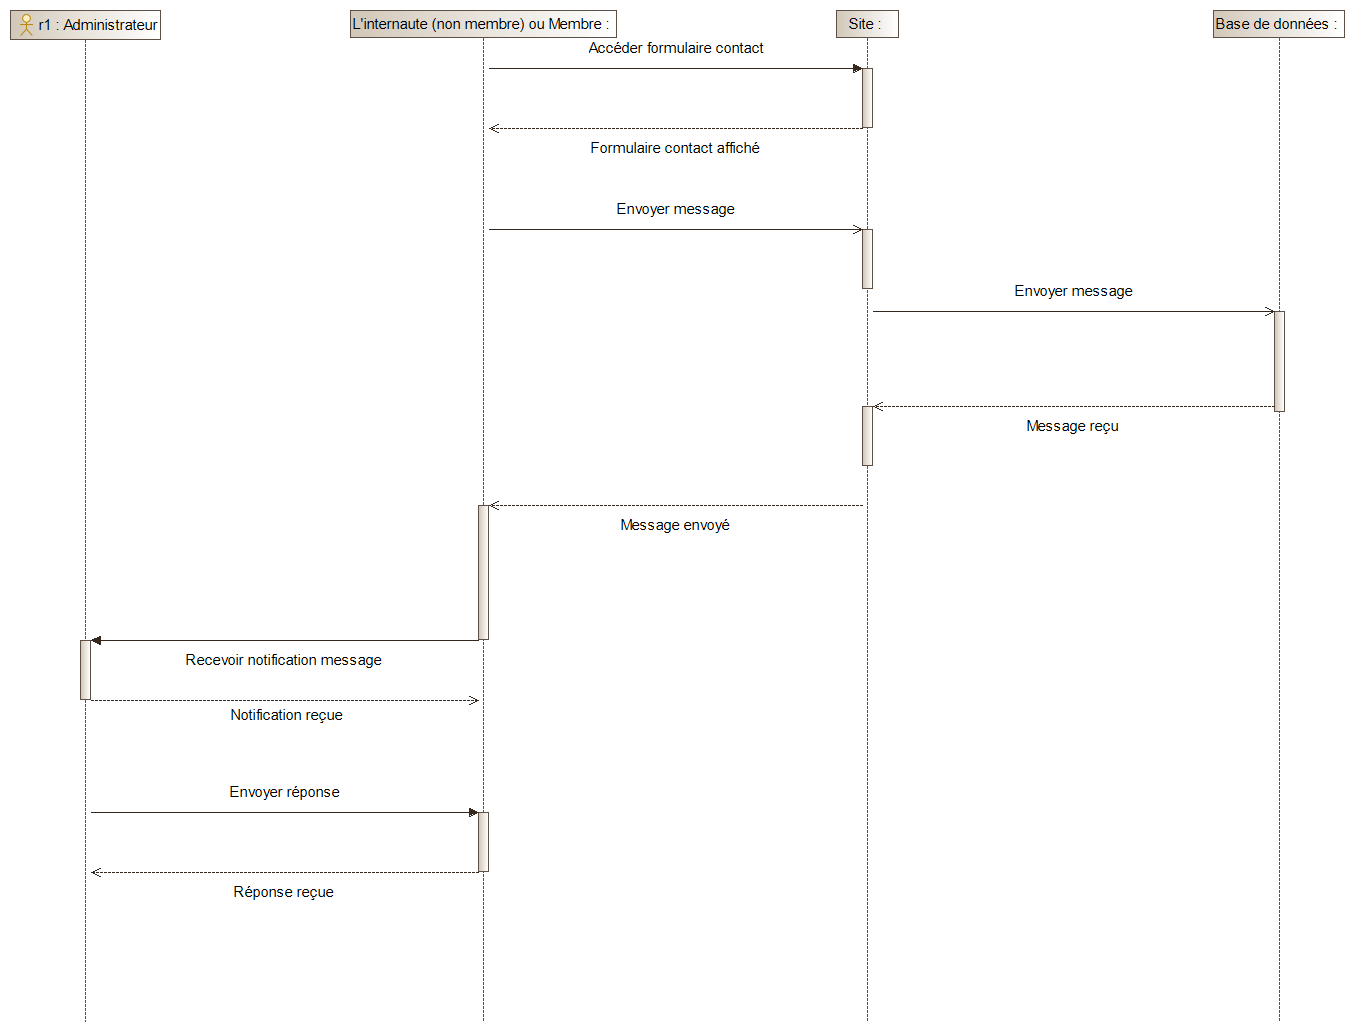
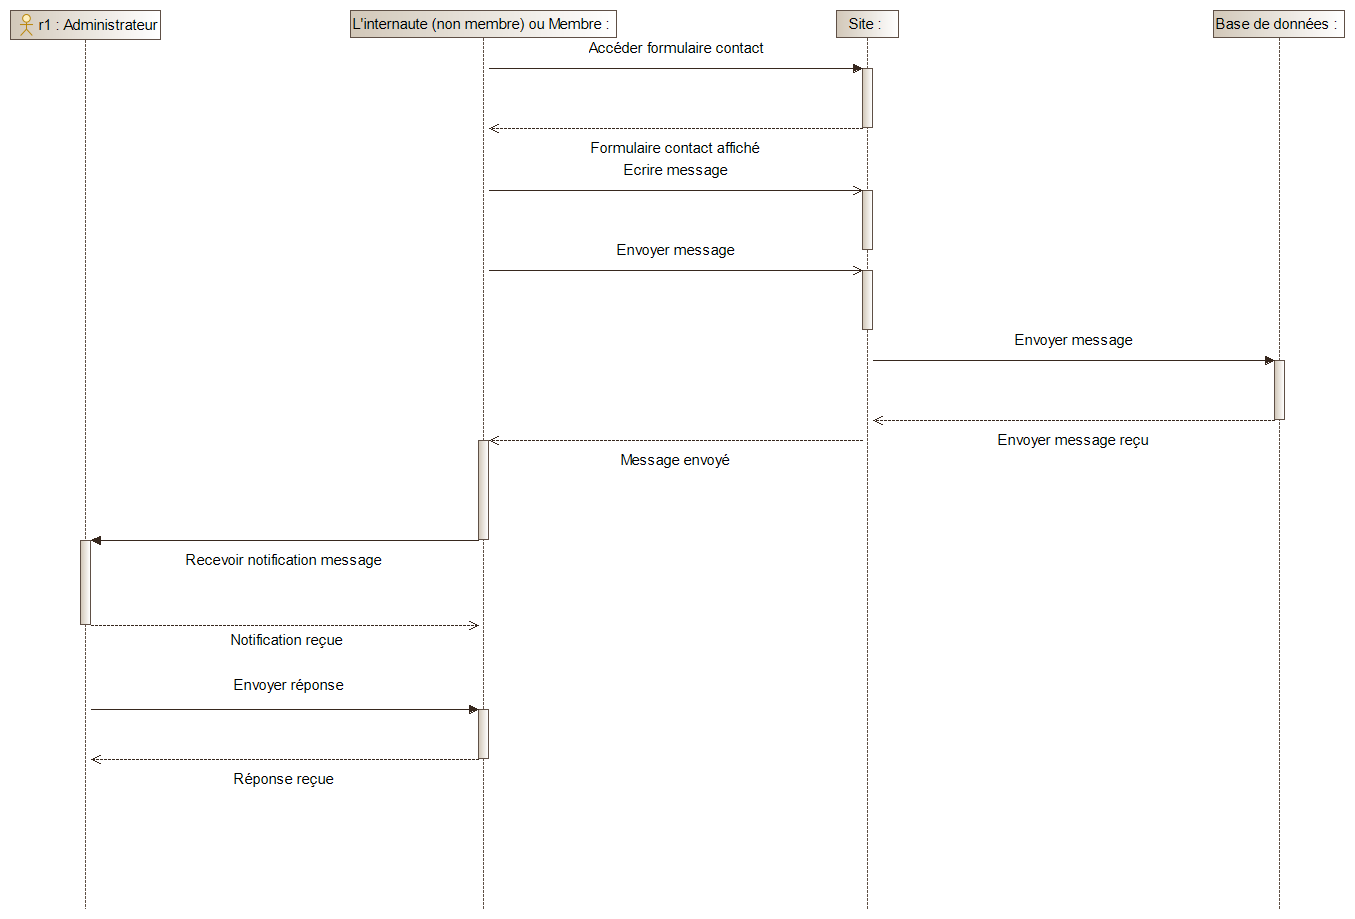
Fonctionnalité de la réponse automatique

diff --git a/src/AssocBundle/Controller/AssocController.php b/src/AssocBundle/Controller/AssocController.php
@@ -10,7 +10,6 @@ use AssocBundle\Entity\Don;
 use Symfony\Bundle\FrameworkBundle\Controller\Controller;
 use Symfony\Component\HttpFoundation\Request;
 use Symfony\Component\HttpFoundation\Response;
-use Knp\Bundle\SnappyBundle\Snappy\Response\PdfResponse;
 use Symfony\Component\HttpKernel\Exception\NotFoundHttpException;
 
 class AssocController extends Controller {
@@ -42,6 +41,19 @@ class AssocController extends Controller {
             $request->getSession()->getFlashBag()->add('info', 'Message bien envoyé, on vous répondra dans les plus brefs délais');
             $message = $this->getDoctrine()->getRepository('AssocBundle:Message')->findById($message->getId());
             //$transport = \Swift_MailTransport::newInstance();
+            $reponse = \Swift_Message::newInstance()
+                    ->setSubject('Votre message sur le formulaire de contact')
+                    ->setFrom('honore@soamada.org')
+                    ->setTo($form["email"]->getData())
+                    ->setBody(
+                    $this->renderView(
+                            'Emails/reponseauto.html.twig', array('messages' => $message)
+                    ), 'text/html'
+            );
+            $this->get('mailer')->send($reponse);
+            //$mailer = \Swift_Mailer::newInstance($transport)
+                    //->send($contact);
+            //$transport = \Swift_MailTransport::newInstance();
             $contact = \Swift_Message::newInstance()
                     ->setSubject('Un nouveau message sur le formulaire de contact')
                     ->setFrom($form["email"]->getData())
@@ -52,7 +64,7 @@ class AssocController extends Controller {
                     ), 'text/html'
             );
             $this->get('mailer')->send($contact);
-            //$mailer = \Swift_Mailer::newInstance($transport)
+           //$mailer = \Swift_Mailer::newInstance($transport)
                     //->send($contact);
         }
         $membres = $this->getDoctrine()->getRepository('AppBundle:Membre')->findAll();
@@ -190,7 +202,6 @@ class AssocController extends Controller {
     /**
      * Méthode affichant la liste des abonnées à la newsletter
      *
-     * @return void
      */
     public function listeAbonnesAction() {
         $abonnes = $this->getDoctrine()->getRepository('AssocBundle:Abonne')->findAll();
@@ -235,7 +246,6 @@ class AssocController extends Controller {
     public function genererArticleenPdfAction(Article $article) {
 
         $snappy = $this->get('knp_snappy.pdf');
-        //var_dump($snappy);
         $fichierNom = 'article';
         $html = $this->renderView('AssocBundle:Default:unarticle.html.twig', array('article' => $article));
         return new Response($snappy->getOutputFromHtml($html), 200, array('Content-Type' => 'application/pdf', 'Content-Disposition' => 'inline; filename="' . $fichierNom . '".pdf'));

diff --git a/src/AssocBundle/Entity/Message.php b/src/AssocBundle/Entity/Message.php
@@ -54,7 +54,7 @@ class Message
      * 
      * @ORM\ManyToOne(targetEntity="AppBundle\Entity\Membre")
      * @ORM\JoinColumn(name="membre_id", referencedColumnName="id", onDelete="CASCADE")
-     * @ORM\Column(name="Membre_id",nullable=true,type="integer")
+     * @ORM\Column(nullable=true,type="integer")
      */
     private $Membre;
 

diff --git a/src/AppBundle/Controller/RegistrationController.php b/src/AppBundle/Controller/RegistrationController.php
@@ -30,7 +30,6 @@ use AppBundle\Entity\Membre;
 use Sensio\Bundle\FrameworkExtraBundle\Configuration\Route;
 use Sensio\Bundle\FrameworkExtraBundle\Configuration\Template;
 use Symfony\Component\HttpFoundation\StreamedResponse;
-use AppBundle\Entity\Membre;
 
 /**
  * Controller managing the registration.
